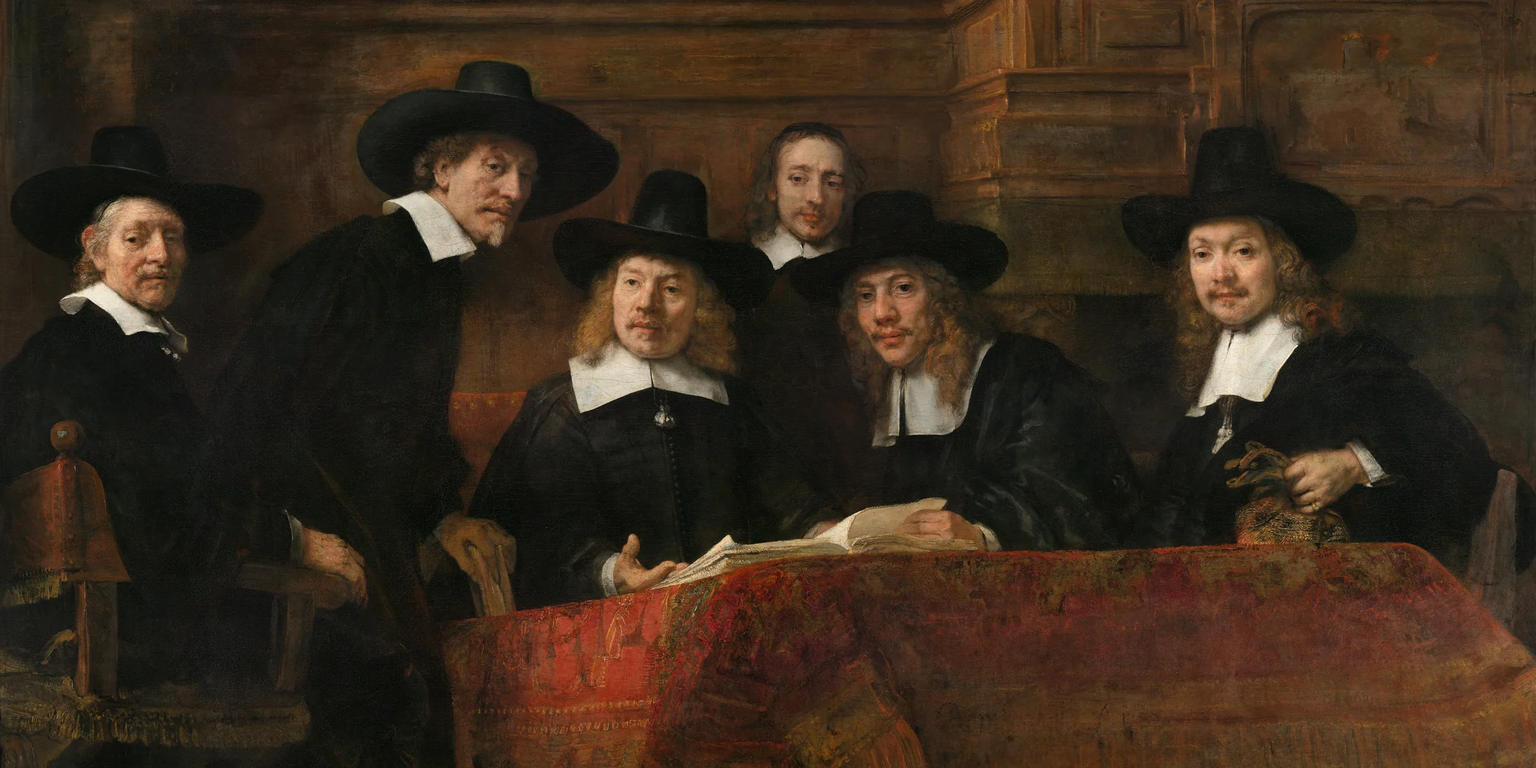
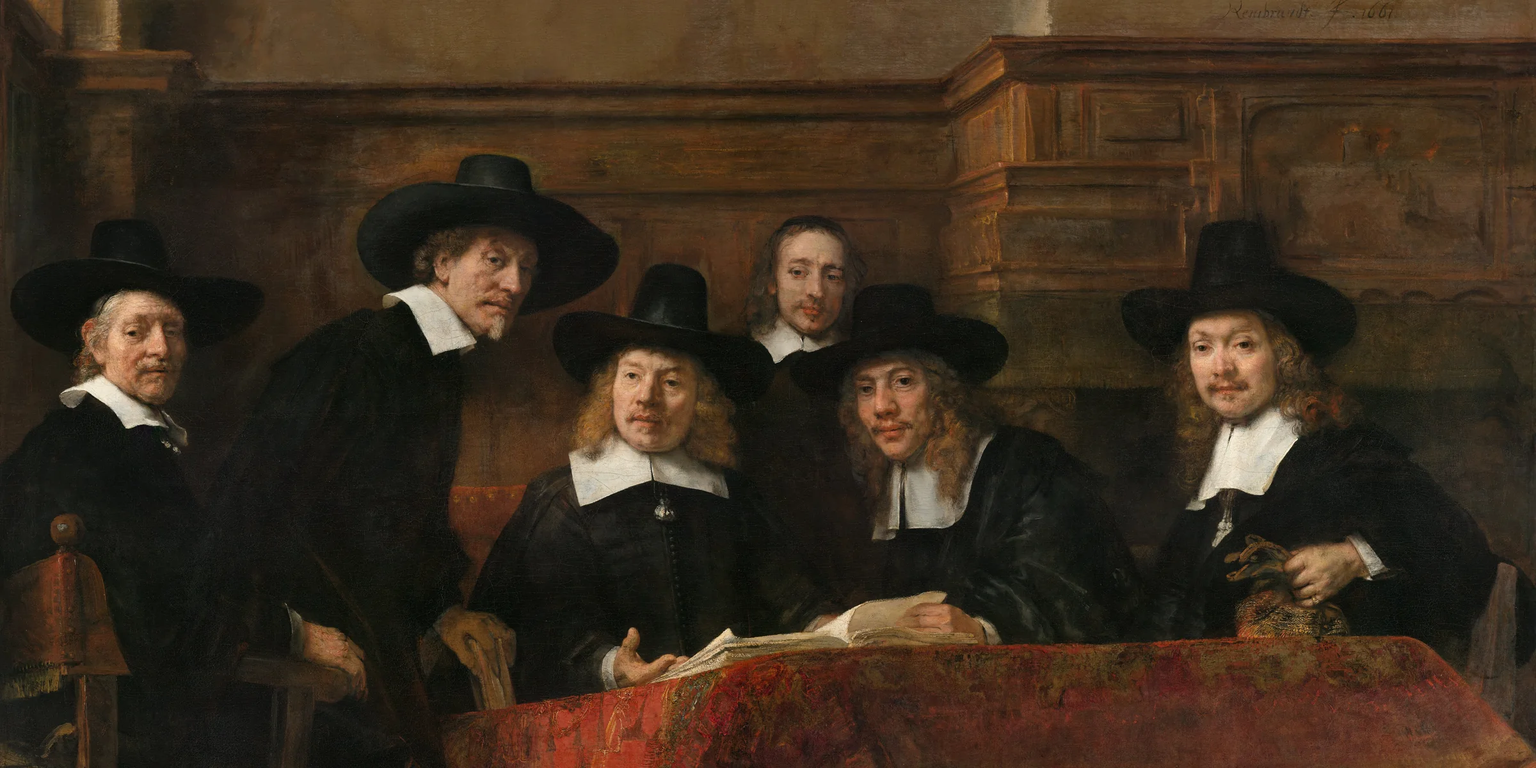
fix: the right sixth of every plate was off the page, not badly cropped
The heroes looked wrong and the crops were not the reason. On a 1512px
viewport the hero image was being laid out 1800px wide: it ran 288px past
the right edge, only 84 percent of each plate was ever on screen, and the
whole site carried a horizontal scrollbar nobody had mentioned. The missing
sixth is the right-hand sixth, which is where the Constable's barge and the
canal are, and where the Delano operator sits.

The cause is that `.hero__image` was positioned with `left: 0` and `right: 0`
and no width. That stretches a div, and `.hero__layer` next to it is a div,
which is why the wash covered the viewport correctly while the picture under
it did not. An image is a replaced element: with `width` auto and a height
given, the used width comes from the intrinsic ratio and `right` is dropped
as over-constrained. So the image sized itself to its own 2:1 against a
900px box and overflowed. `object-fit: cover` never ran, which is also why
this never looked like a crop and never showed up in a screenshot of the
plate on its own.

Two lines fix it. The image gets an explicit width, and the hero subtracts
the strip behind the header from its own height so the box it hands the
image is exactly 2:1. Both carry a comment saying what goes wrong without
them, because neither is guessable from reading the working version.

With the full plate finally on screen, the anchors were all set against a
frame a sixth wider than the real one, and every subject sat too high: the
[…]

diff --git a/docs/stylesheets/hero.css b/docs/stylesheets/hero.css
@@ -9,12 +9,13 @@
      would clip that sliver away. */
   overflow: visible;
   background: var(--md-default-bg-color);
-  /* 50vw is exactly 2:1, the aspect the plates are cut to, so `cover` throws
-     nothing away between roughly 760px and 2080px of viewport. The plates were
-     cut to 20:9 first, and that letterbox was too shallow for canvases this
-     upright: it left the Geographer no headroom and reduced the Constable's
-     sky to a strip. */
-  height: clamp(380px, 50vw, 1040px);
+  /* The plates are 2:1 and the box that shows them is this height plus the
+     strip behind the header, so the hero has to be 50vw minus that strip for
+     the box to come out 2:1 and `cover` to throw nothing away. Subtracting it
+     is not a refinement. Without it the box is taller than the plate, and
+     because the image is a replaced element the overflow does not show up as
+     a crop: see the width note below. */
+  height: calc(clamp(380px, 50vw, 1040px) - var(--topnav-height, 0px));
   margin-top: -1px;
 }
 
@@ -27,6 +28,15 @@
   left: 0;
   right: 0;
   bottom: 0;
+  /* Explicit, and not left to `left: 0` with `right: 0`. Those two stretch a
+     div, but an image is a replaced element: with `width` auto and a height
+     given, its width comes from the intrinsic ratio and `right` is dropped as
+     over-constrained. That is what happened here, and it is invisible in a
+     screenshot of the plate itself. On a 1512px viewport the image was laid
+     out 1800px wide, so the right sixth of every plate was off the page along
+     with the Constable's barge, and the whole site carried a horizontal
+     scrollbar. `cover` never ran at all. */
+  width: 100%;
   height: calc(100% + var(--topnav-height, 0px));
   object-fit: cover;
   object-position: center center;
